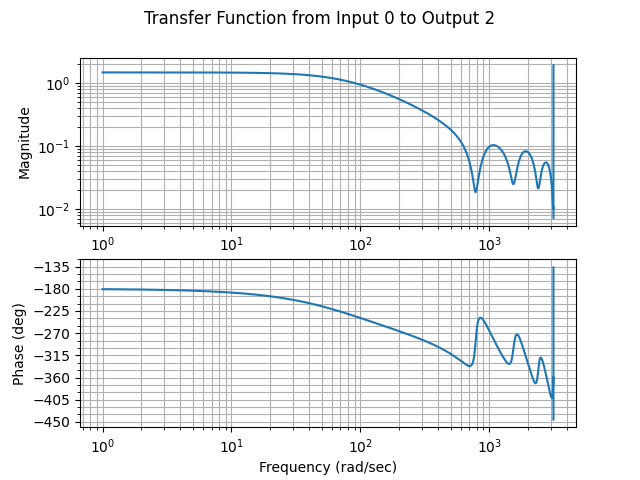
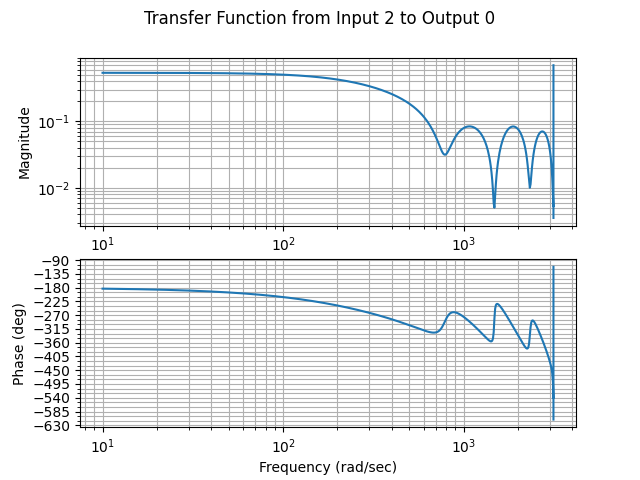
updating the Bode plots and time-step simulation for transposition fix

Changed region(s): [[0.0625, 0.5, 0.9062, 0.9375], [0.0625, 0.125, 0.9062, 0.4688], [0.5938, 0.0312, 0.7812, 0.0625]]

diff --git a/examples/hwpv/pv1_poly.py b/examples/hwpv/pv1_poly.py
@@ -491,10 +491,10 @@ class pv1():
     self.uhist = {}
     self.yhist = {}
     self.ysum = np.zeros(self.H1.out_channels)
-    for i in range(self.H1.in_channels):
+    for i in range(self.H1.out_channels):
       self.uhist[i] = {}
       self.yhist[i] = {}
-      for j in range(self.H1.out_channels):
+      for j in range(self.H1.in_channels):
         self.uhist[i][j] = np.zeros(self.H1.n_b)
         self.yhist[i][j] = np.zeros(self.H1.n_a)
                                              
@@ -521,16 +521,16 @@ class pv1():
     with torch.no_grad():
       y_non = self.F1 (ub)
       self.ysum[:] = 0.0
-      for i in range(self.H1.in_channels):
-        for j in range(self.H1.out_channels):
+      for i in range(self.H1.out_channels):
+        for j in range(self.H1.in_channels):
           uh = self.uhist[i][j]
           yh = self.yhist[i][j]
           uh[1:] = uh[:-1]
-          uh[0] = y_non[i]
+          uh[0] = y_non[j]
           ynew = np.sum(np.multiply(self.b_coeff[i,j,:], uh)) - np.sum(np.multiply(self.a_coeff[i,j,:], yh))
           yh[1:] = yh[:-1]
           yh[0] = ynew
-          self.ysum[j] += ynew
+          self.ysum[i] += ynew
       y_lin = torch.tensor (self.ysum, dtype=torch.float)
       y_hat = self.F2 (y_lin)
 

diff --git a/examples/hwpv/pv1_import.py b/examples/hwpv/pv1_import.py
@@ -53,13 +53,13 @@ def make_bode_plots (H1):
   a_poly[:, :, 1:] = a_coeff[:, :, :]
   b_poly = np.array(b_coeff)
   H1_sys = control.TransferFunction(b_poly, a_poly, dt)
-  for i in range (H1.in_channels):
-    for j in range (H1.out_channels):
+  for i in range (H1.out_channels):
+    for j in range (H1.in_channels):
       plt.figure()
       mag_H1, phase_H1, omega_H1 = control.bode(H1_sys[i, j])
-      plt.suptitle('Transfer Function from Input {:d} to Output {:d}'.format (i, j))
-      plt.show()
-#      plt.savefig ('H1_{:d}_{:d}.png'.format (i, j))
+      plt.suptitle('Transfer Function from Input {:d} to Output {:d}'.format (j, i))
+#      plt.show()
+      plt.savefig ('H1_{:d}_{:d}.png'.format (i, j))
 
 if __name__ == '__main__':
   model = pv1_model.pv1 ()
@@ -117,8 +117,8 @@ if __name__ == '__main__':
     # advance the simulation time
     t += dt
 
-  # make_bode_plots (model.H1)
-#  quit()
+  make_bode_plots (model.H1)
+  quit()
   t1 = time.process_time()
   print ('Simulation elapsed time = {:.4f} seconds.'.format (t1-t0))
 
